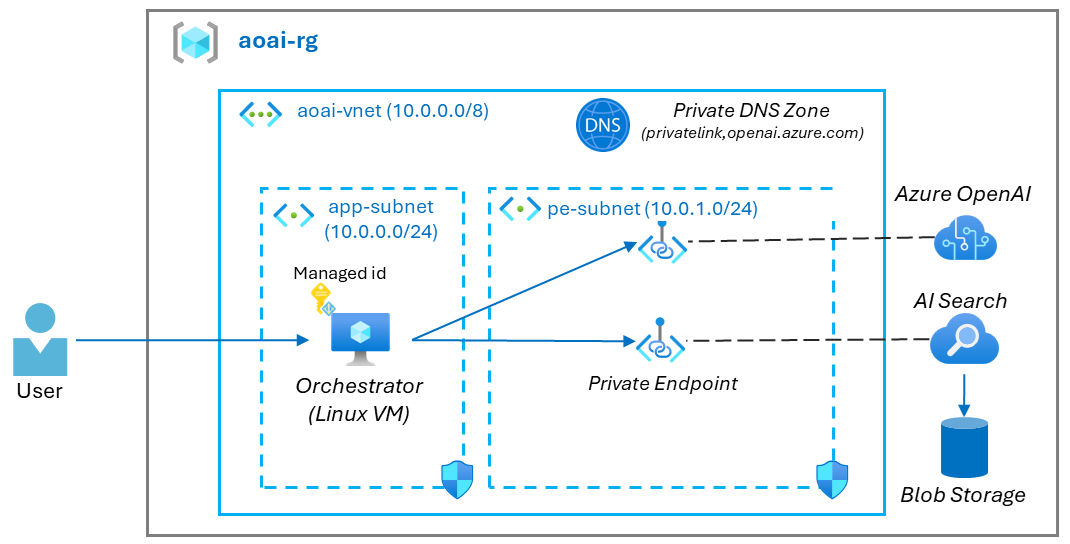
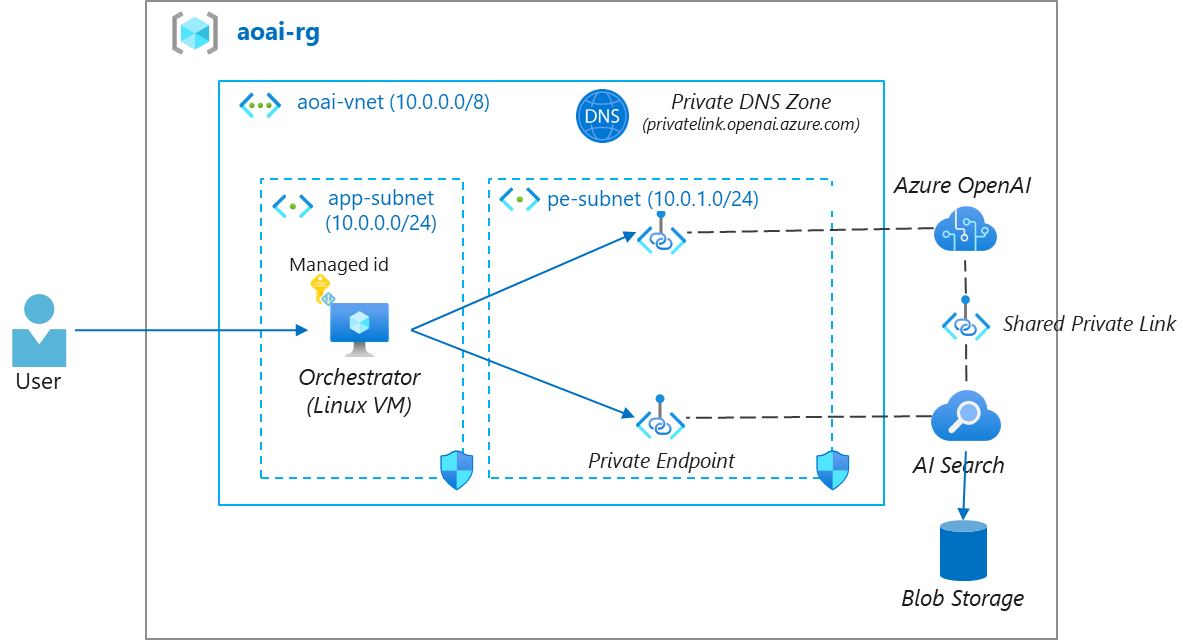
fixed some error after first run

diff --git a/README.md b/README.md
@@ -18,6 +18,8 @@ Provision following Azure resources:
 
 Setup VM
 
+- add inbound network ports `22` and `8888` to the NSG
+- connect VM
 - install `miniconda`
     - https://docs.anaconda.com/free/miniconda/index.html#quick-command-line-install 
 - setup a new conda (python=3.9) environment
@@ -30,7 +32,9 @@ Setup VM
 - update `.env`
     - copy `env.txt` to `.env` and update keys
 - setup/run jupyter
-    - `jupyter notebook`
+    - `~/miniconda3/envs/myenv/bin/jupyter notebook`
+    - connect jupyter through ssh port foward from local PC or add `--ip 0.0.0.0 --port 8888` to connect directly from browser
+        - `ssh -nNT -L 8888:localhost:8888 user@remote_ip`
 
 ## Challenges:
 

diff --git a/Challenge5/README.md b/Challenge5/README.md
@@ -53,3 +53,9 @@ credential = DefaultAzureCredential()
 For Azure AI Services:
 
 - https://learn.microsoft.com/en-us/azure/ai-services/cognitive-services-virtual-networks?tabs=portal
+
+To connect OpenAI service (P.E enabled) from AI Search, you need to setup Private Link Service
+
+- https://learn.microsoft.com/en-us/azure/search/search-indexer-howto-access-private
+
+
